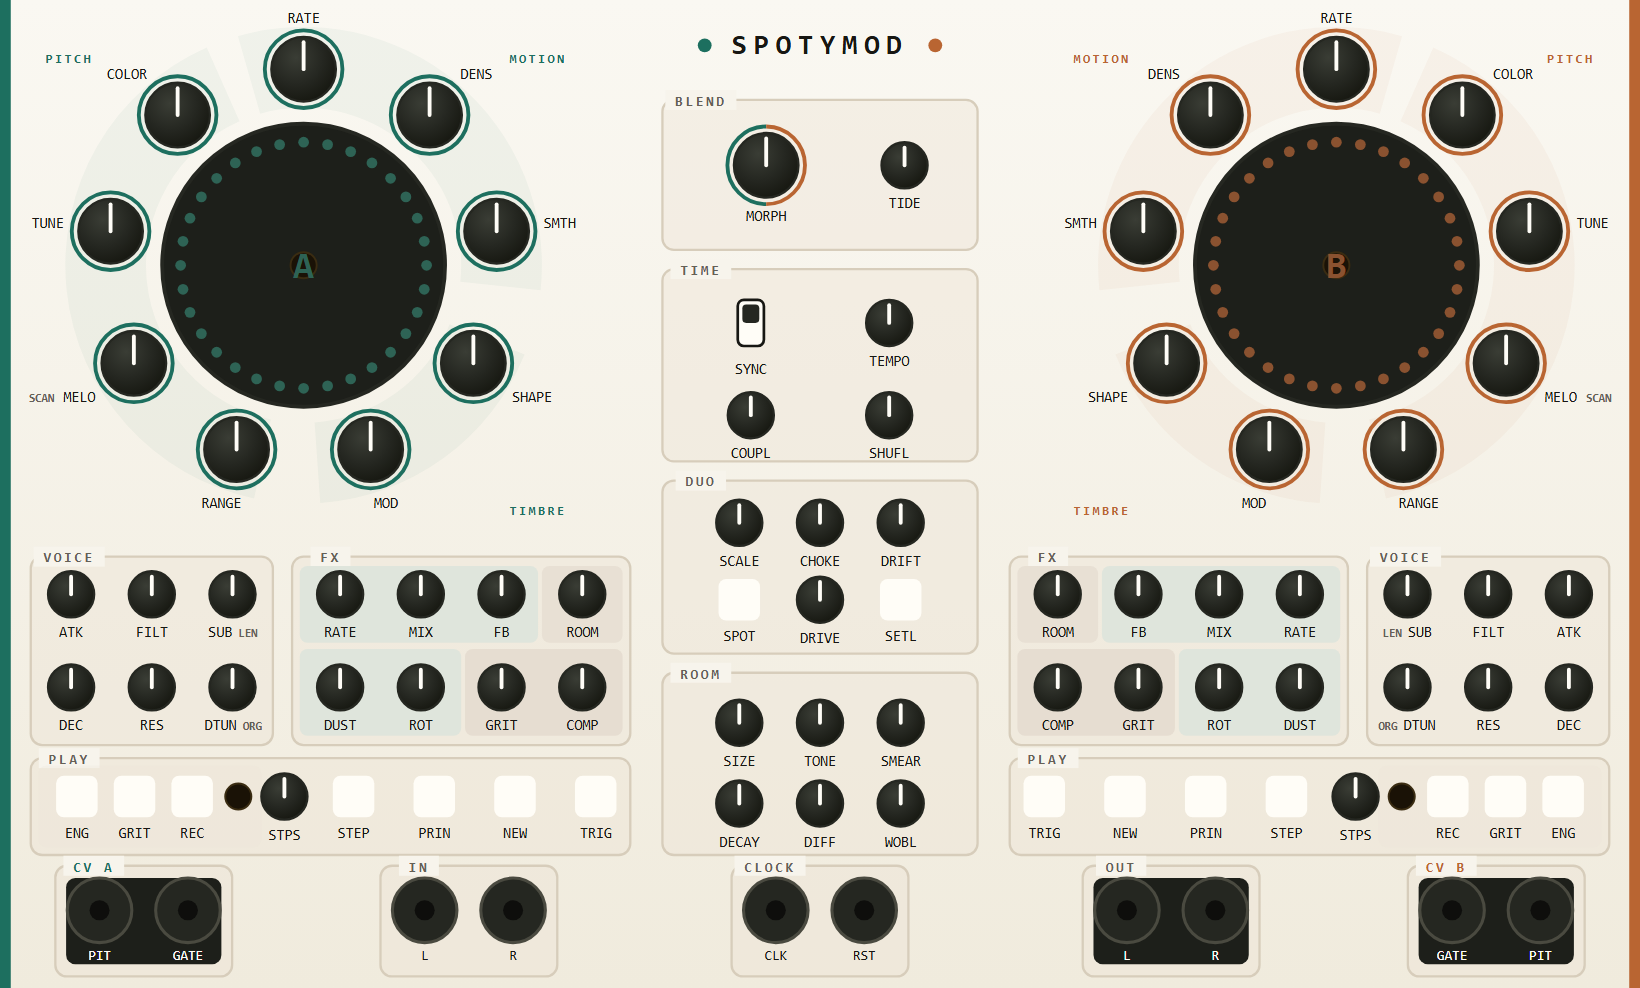
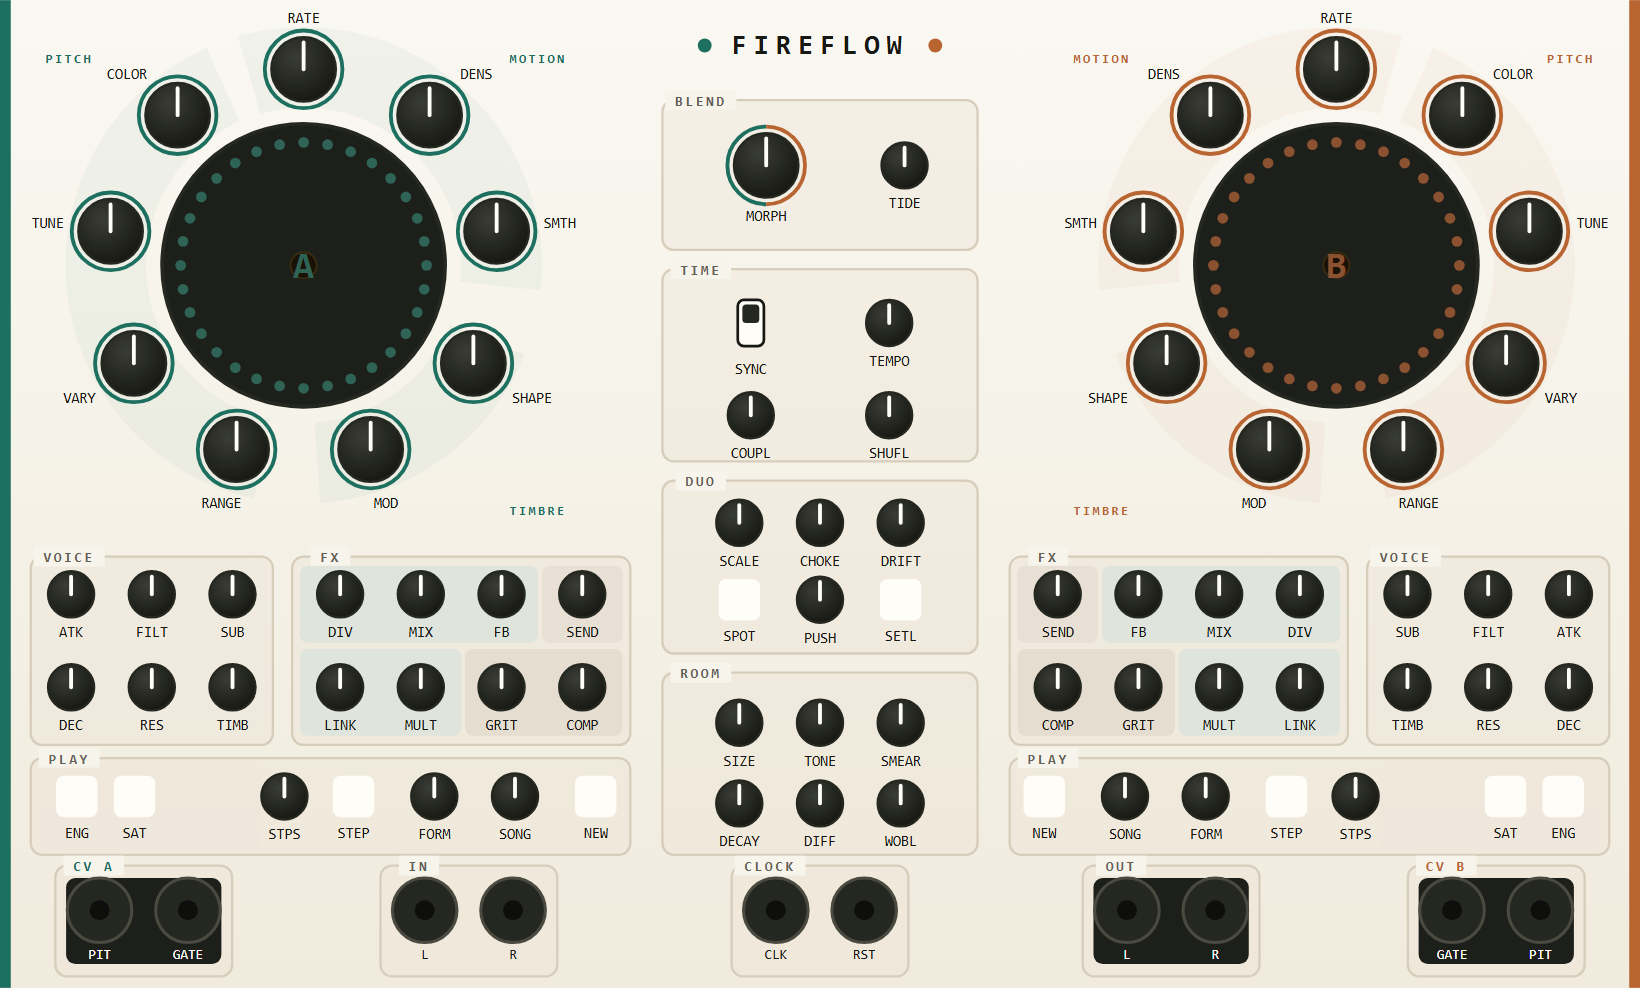
docs(panel): re-render the hero image, two caption rounds out of date
The rename left docs/img/fireflow-panel.png renamed but not re-rendered, so the
README still showed the SPOTYMOD wordmark. Rendering it turned up a second,
older problem: the image predated the engine-aware captions round, so it was
still advertising RATE/ROOM/DUST/ROT/PRIN/TRIG/MELO/SCAN where the panel now
reads DIV/SEND/LINK/MULT/FORM/SONG/VARY.

Rendered from res/Fireflow.svg through headless Chrome at 1640x988, the same
size as before, framing identical to the previous image. A browser was used
rather than a Python rasteriser because the knob caps are radial gradients and
svglib/reportlab drop them. host/vcv/README.md now carries the command, since
nothing regenerates this file automatically and that is exactly how it went
stale.

diff --git a/host/vcv/README.md b/host/vcv/README.md
@@ -516,6 +516,24 @@ python3 res/gen_panel.py     # run from host/vcv/
 
 Edit the control table in `res/gen_panel.py`, re-run, rebuild.
 
+### The README hero image
+
+`docs/img/fireflow-panel.png` is a raster of that same SVG, and **nothing
+regenerates it automatically** — it silently went two caption rounds stale once
+already. After a panel change, re-render it. Any browser's headless screenshot
+does the job faithfully, including the knob-cap gradients that pure-Python SVG
+rasterisers drop:
+
+```bash
+# wrapper keeps the exact pixel size; the SVG's own units are mm
+printf '<style>html,body{margin:0;overflow:hidden}img{display:block;width:1640px;height:988px}</style><img src="Fireflow.svg">' > res/_r.html
+<your-browser> --headless=new --hide-scrollbars --window-size=1640,988 \
+  --screenshot=../../docs/img/fireflow-panel.png res/_r.html
+rm res/_r.html
+```
+
+1640 × 988 is twice the 820 px the README displays it at.
+
 ## I/O
 
 | Port | Meaning |
